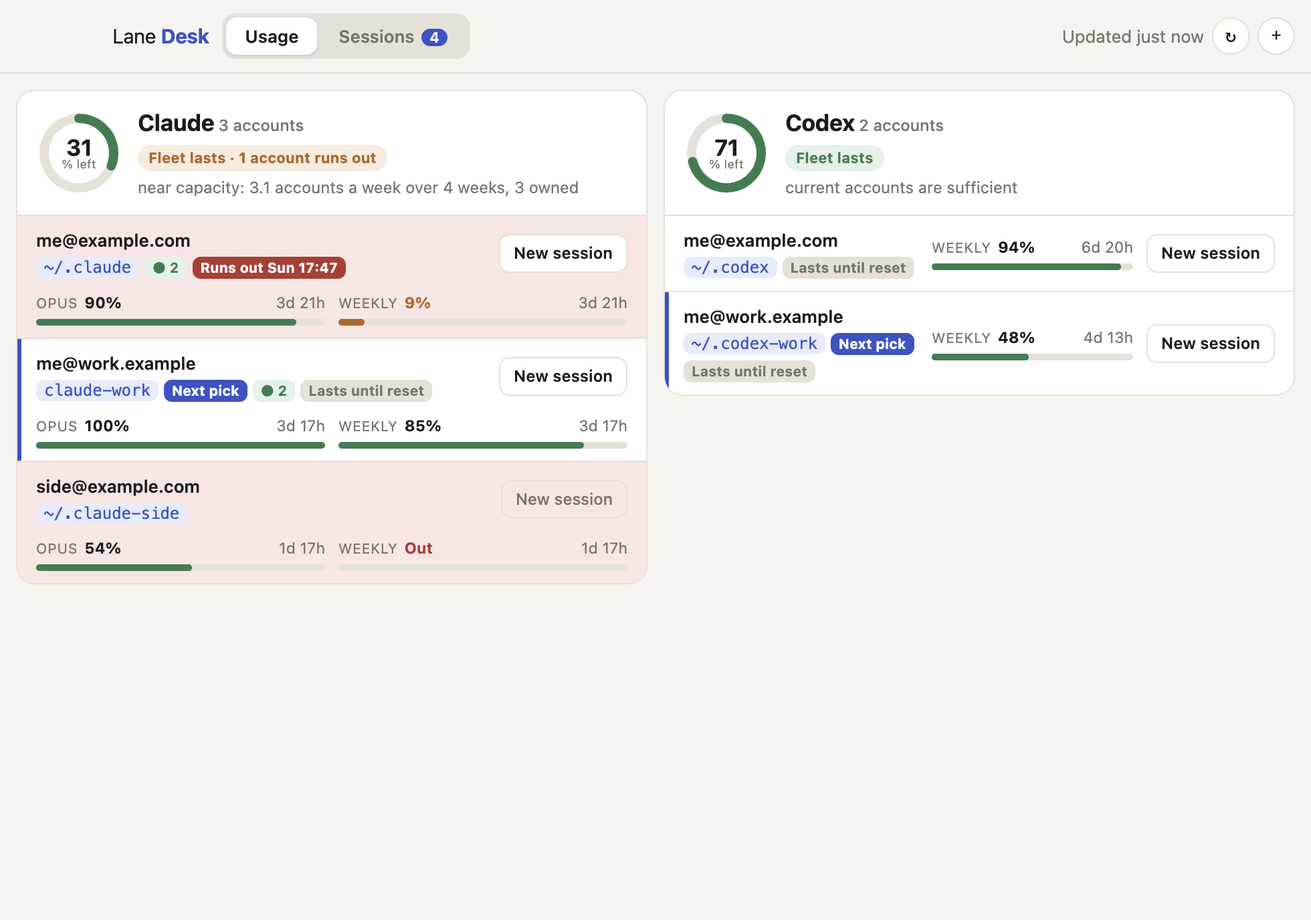
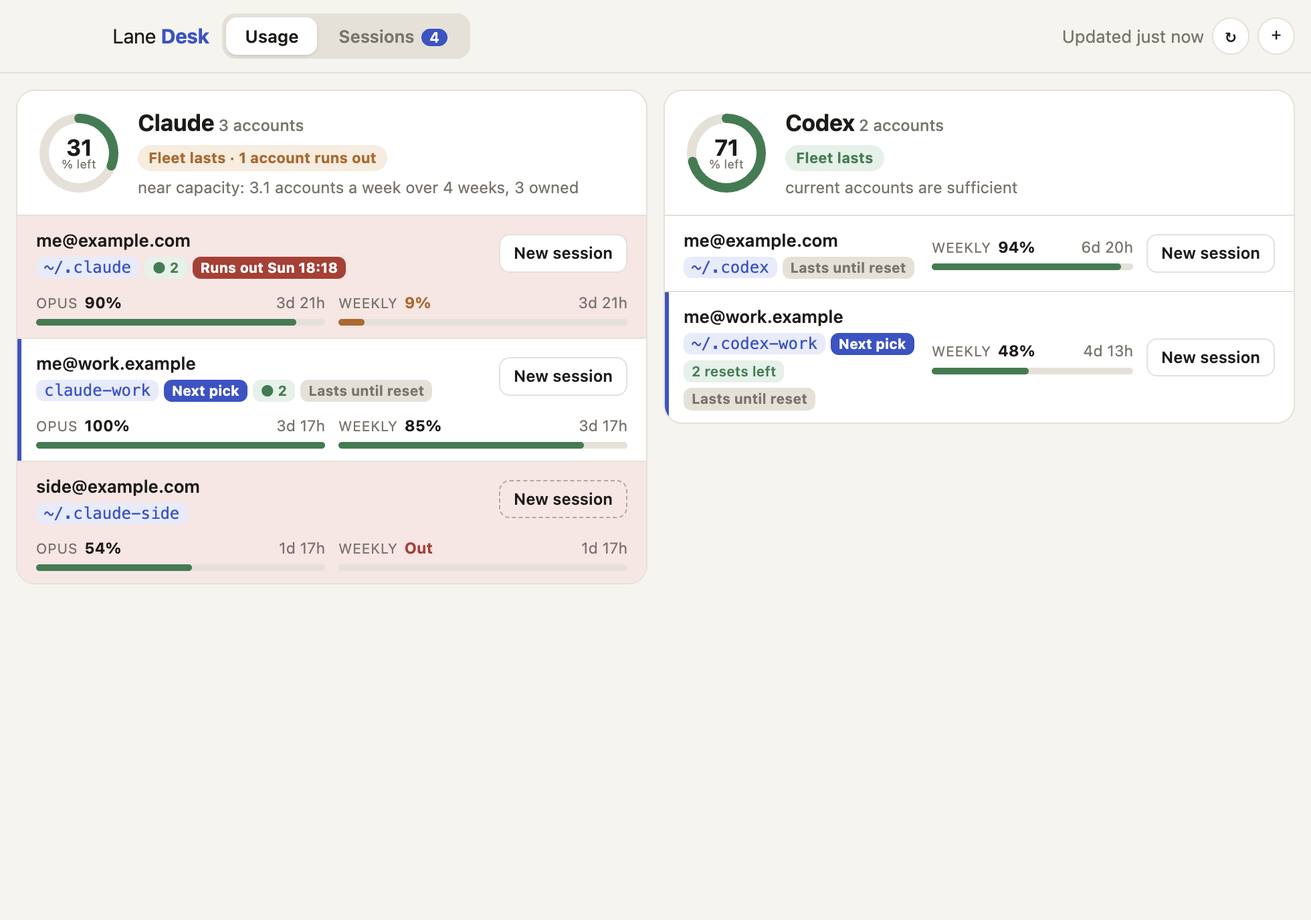
0.2.1: one-line popover bar, quiet vs off buttons, tmux notice, Codex banked resets, upgrade fixes (#5)
- C1: the 420 px popover keeps its top bar on one line ("Just now" in the popover).
- C2: quiet New session keeps sharp text with a dashed border; off fades.
- C3: without tmux, a line above the cards says to brew install tmux.
- C4: Codex accounts get "N resets left" from Tally resetCreditsAvailable,
  soonest expiry on hover (meaning from Tally ProviderModels.swift:155-177).
- C5: a copy that waited on an unresponsive copy for the one-instance lock
  never gets ready (Electron 45.4.1); relaunch once if not ready 8 s after
  the lock, exit if a relaunched copy is still not ready after 30 s. The
  right-click menu starts with "Lane Desk <version>".
- README (en, ko): upgrade order; npm i -g does not fetch Electron, the first
  run does (about 120 MB, 260 MB unpacked); new screenshots. Version 0.2.1.

Changed region(s): [[0.7158, 0.3438, 0.9648, 0.4062], [0.498, 0.375, 0.6224, 0.4375], [0.3735, 0.5312, 0.4668, 0.5625]]

diff --git a/lib/i18n.js b/lib/i18n.js
@@ -70,6 +70,15 @@ const STRINGS = {
     'runout.before.title': '{basis}. At this pace the weekly limit runs out before the reset{reset}.',
     'runout.resetAt': ' ({when})',
 
+    // Codex banked resets (from Tally)
+    'codexReset.one': '1 reset left',
+    'codexReset.many': '{n} resets left',
+    'codexReset.titleOne': 'This Codex account can still redeem 1 banked reset. A reset refills the weekly limit.',
+    'codexReset.titleMany': 'This Codex account can still redeem {n} banked resets. A reset refills the weekly limit.',
+    'codexReset.expires': 'The soonest expires {when} (in {left}).',
+    'codexReset.expiryUnknown': 'At least one has no reported expiry.',
+    'codexReset.source': 'Source: Tally. Lane Desk does not redeem them.',
+
     // sources
     'src.noTmux': 'tmux not found.',
     'src.noCommand': 'Command {cmd} not found.',
@@ -155,6 +164,7 @@ const STRINGS = {
     'ui.newSession.out': 'Weekly limit used up · resets in {left}',
     'ui.newSession.outNoDate': 'Weekly limit used up',
     'ui.needTmux': 'Needs tmux 3.2 or later (brew install tmux)',
+    'ui.needTmux.notice': 'New session and Attach need tmux 3.2 or later:',
     'ui.noLane.title': 'No command is set for this account',
     'ui.reset': 'Reset',
     'ui.resetting': 'Resetting…',
@@ -173,6 +183,7 @@ const STRINGS = {
     'ui.failedPrefix': 'Failed: {msg}',
     'ui.reloaded': 'Read again.',
     'ui.justUpdated': 'Updated just now',
+    'ui.justUpdated.short': 'Just now',
     'ui.secAgo': '{n}s ago',
     'ui.minAgo': '{n}m ago',
     'ui.staleTitle': 'Tally marked these values as old',
@@ -237,6 +248,14 @@ const STRINGS = {
     'runout.safe.title': '{basis}. 이 속도면 {when}에 바닥인데, 그 전에 리셋됩니다.',
     'runout.before.title': '{basis}. 이 속도면 리셋{reset} 전에 주간 한도가 바닥납니다.',
     'runout.resetAt': '({when})',
+
+    'codexReset.one': '리셋 1회 남음',
+    'codexReset.many': '리셋 {n}회 남음',
+    'codexReset.titleOne': '이 Codex 계정은 적립된 리셋을 아직 1회 쓸 수 있습니다. 리셋 1회는 주간 한도를 다시 채웁니다.',
+    'codexReset.titleMany': '이 Codex 계정은 적립된 리셋을 아직 {n}회 쓸 수 있습니다. 리셋 1회는 주간 한도를 다시 채웁니다.',
+    'codexReset.expires': '가장 빠른 만료는 {when}({left} 뒤)입니다.',
+    'codexReset.expiryUnknown': '만료 시각이 알려지지 않은 리셋이 하나 이상 있습니다.',
+    'codexReset.source': '근거: Tally. Lane Desk는 리셋을 쓰지 않습니다.',
 
     'src.noTmux': 'tmux를 찾지 못했습니다.',
     'src.noCommand': '{cmd} 명령을 찾지 못했습니다.',
@@ -320,6 +339,7 @@ const STRINGS = {
     'ui.newSession.out': '주간 한도 소진 · {left} 뒤 리셋',
     'ui.newSession.outNoDate': '주간 한도 소진',
     'ui.needTmux': 'tmux 3.2 이상 필요 (brew install tmux)',
+    'ui.needTmux.notice': '새 세션·붙기에는 tmux 3.2 이상이 필요합니다:',
     'ui.noLane.title': '이 계정에 실행 명령이 없습니다',
     'ui.reset': '리셋',
     'ui.resetting': '리셋 중…',
@@ -338,6 +358,7 @@ const STRINGS = {
     'ui.failedPrefix': '실패: {msg}',
     'ui.reloaded': '새로 읽었습니다.',
     'ui.justUpdated': '방금 갱신',
+    'ui.justUpdated.short': '방금',
     'ui.secAgo': '{n}초 전',
     'ui.minAgo': '{n}분 전',
     'ui.staleTitle': 'Tally가 오래된 값이라고 표시했습니다',

diff --git a/lib/model.js b/lib/model.js
@@ -3,7 +3,7 @@
 
 const lr = require('./limitreset');
 const ro = require('./runout');
-const { t } = require('./i18n');
+const { t, getLang } = require('./i18n');
 
 /** Weekly left (%) below which a 5-hour reset is not worth it: the weekly wall comes soon anyway (same rule as Tally). */
 const RESET_WEEKLY_FLOOR = 20;
@@ -99,6 +99,38 @@ function verdictOf(sustainable, accounts) {
     label: n ? `${fleet} · ${t(n === 1 ? 'verdict.runoutOne' : 'verdict.runoutMany', { n })}` : fleet,
     title: t('verdict.title'),
   };
+}
+
+/** "Lane Desk 0.2.1", with " (demo)" for the demo: the version line at the top of the menu bar's right-click menu. */
+function appLabel(version, demo = false) {
+  return `Lane Desk ${version}${demo ? ' (demo)' : ''}`;
+}
+
+/** A date and time as "Dec 12, 22:41" (or "12월 12일 22:41"). Without timeZone, this Mac's zone. */
+function fmtDate(ms, timeZone) {
+  const ko = getLang() === 'ko';
+  const fmt = new Intl.DateTimeFormat('en-US', { timeZone, month: ko ? 'numeric' : 'short', day: 'numeric', hour: '2-digit', minute: '2-digit', hourCycle: 'h23' });
+  const p = Object.fromEntries(fmt.formatToParts(new Date(ms)).map((x) => [x.type, x.value]));
+  return ko ? `${p.month}월 ${p.day}일 ${p.hour}:${p.minute}` : `${p.month} ${p.day}, ${p.hour}:${p.minute}`;
+}
+
+/**
+ * The banked-reset tag of one Codex account, from Tally's status fields. In Tally's source
+ * (Tally/Providers/ProviderModels.swift:155-177) `resetCreditsAvailable` is how many banked rate-limit resets the
+ * account can still redeem, `resetCreditsNextExpiry` is when the soonest spendable one expires (null does NOT mean
+ * "never"), and `resetCreditsExpiryUnknown` is true when at least one has no reported expiry. A redeem refills the
+ * weekly window (Tally/Core/CodexAutoRedeem.swift:3,35). Like Tally's own row ("2 resets available",
+ * Tally/Views/UsageLayoutParts.swift:106), only a count above 0 is drawn. Lane Desk never redeems.
+ */
+function codexResets(a, now, timeZone) {
+  const n = a.resetCreditsAvailable;
+  if (!Number.isInteger(n) || n <= 0) return null;
+  const title = [t(n === 1 ? 'codexReset.titleOne' : 'codexReset.titleMany', { n })];
+  const expiry = typeof a.resetCreditsNextExpiry === 'string' ? Date.parse(a.resetCreditsNextExpiry) : NaN;
+  if (!Number.isNaN(expiry)) title.push(t('codexReset.expires', { when: fmtDate(expiry, timeZone), left: fmtLeft(expiry, now) }));
+  if (a.resetCreditsExpiryUnknown === true) title.push(t('codexReset.expiryUnknown'));
+  title.push(t('codexReset.source'));
+  return { label: t(n === 1 ? 'codexReset.one' : 'codexReset.many', { n }), title: title.join(' ') };
 }
 
 /** Hover text for New session on an account whose weekly limit is used up: when it resets, if known. */
@@ -250,6 +282,7 @@ function buildView({ status, problem = null, lanes = {}, sessions = [], norm = (
           const r = (key && resets[key]) || {};
           account.limitReset = resetInfo(r.flag ?? null, r.record || null, now, a.resetState ?? null);
         }
+        account.codexResets = id === 'codex' ? codexResets(a, now, timeZone) : null;
         accountsById[account.id] = account;
         return account;
       });
@@ -322,6 +355,7 @@ module.exports = {
   resetInfo,
   RESET_WEEKLY_FLOOR,
   verdictOf,
+  appLabel,
   TALLY_URL,
   DEMO_COMMAND,
 };

diff --git a/test/model.test.js b/test/model.test.js
@@ -179,6 +179,46 @@ describe('the card verdict', () => {
   });
 });
 
+describe('Codex banked resets from Tally', () => {
+  const codex = (over) => ({ id: 'x9', provider: 'codex', label: 'dev', launchHome: '/home/me/.codex', weeklyRemaining: 50, ...over });
+  const tag = (over) => buildView({ status: { accounts: [codex(over)] }, now: NOW, timeZone: 'UTC' }).providers[0].accounts[0].codexResets;
+
+  it('counts the resets left and gives the soonest expiry, from Tally', () => {
+    const r = tag({ resetState: 'available', resetCreditsAvailable: 2, resetCreditsNextExpiry: '2026-12-12T22:41:46Z', resetCreditsExpiryUnknown: false });
+    expect(r.label).toBe('2 resets left');
+    expect(r.title).toBe(
+      'This Codex account can still redeem 2 banked resets. A reset refills the weekly limit. The soonest expires Dec 12, 22:41 (in 21d 22h). Source: Tally. Lane Desk does not redeem them.',
+    );
+  });
+
+  it('says when an expiry is not reported, and never reads no date as no expiry', () => {
+    const r = tag({ resetCreditsAvailable: 1, resetCreditsExpiryUnknown: true });
+    expect(r.label).toBe('1 reset left');
+    expect(r.title).toContain('At least one has no reported expiry.');
+    expect(r.title).not.toContain('soonest');
+  });
+
+  it('draws nothing for zero, a missing count, or a Claude account', () => {
+    expect(tag({ resetState: 'used', resetCreditsAvailable: 0 })).toBeNull();
+    expect(tag({ resetState: 'notSupported' })).toBeNull();
+    expect(buildView({ status, now: NOW }).providers[0].accounts[0].codexResets).toBeNull();
+  });
+
+  it('reads in Korean', () => {
+    i18n.setLang('ko');
+    const r = tag({ resetCreditsAvailable: 3, resetCreditsNextExpiry: '2026-11-30T19:55:07Z' });
+    expect(r.label).toBe('리셋 3회 남음');
+    expect(r.title).toContain('가장 빠른 만료는 11월 30일 19:55(9d 19h 뒤)입니다.');
+  });
+});
+
+describe('the version line in the menu bar menu', () => {
+  it('names the running version, and the demo', () => {
+    expect(model.appLabel('0.2.1')).toBe('Lane Desk 0.2.1');
+    expect(model.appLabel('0.2.1', true)).toBe('Lane Desk 0.2.1 (demo)');
+  });
+});
+
 describe('short paths', () => {
   it('shortens only paths inside the home folder', () => {
     expect(model.shortPath('/home/me/code', '/home/me')).toBe('~/code');

diff --git a/renderer/style.css b/renderer/style.css
@@ -66,8 +66,12 @@ code { font: 12px ui-monospace, 'SF Mono', Menlo, monospace; }
 .tabs { display: flex; background: var(--line); padding: 3px; border-radius: 10px; gap: 2px; }
 .tabs button {
   border: 0; background: transparent; color: var(--muted); font: inherit; font-weight: 600;
-  padding: 5px 14px; border-radius: 8px; cursor: pointer;
+  padding: 5px 14px; border-radius: 8px; cursor: pointer; white-space: nowrap;
 }
+/* the 420 px popover keeps brand, tabs, badge, time, and buttons on one line */
+.mode-popover .bar { gap: 8px; }
+.mode-popover .tabs button { padding: 5px 10px; }
+#updated { white-space: nowrap; }
 .tabs button[aria-selected='true'] { background: var(--panel); color: var(--ink); box-shadow: 0 1px 2px rgb(0 0 0 / 0.12); }
 .count:not(:empty) { background: var(--accent); color: #fff; border-radius: 9px; padding: 0 6px; font-size: 11px; margin-left: 2px; }
 .tools { margin-left: auto; display: flex; align-items: center; gap: 6px; }
@@ -80,6 +84,8 @@ button.icon {
 main { flex: 1; overflow: auto; padding: 12px; }
 .empty-state { text-align: center; color: var(--muted); padding: 48px 12px; }
 .empty-state.error { color: var(--out); }
+.notice { margin: 0 0 12px; padding: 8px 12px; border-radius: 10px; background: var(--low-soft); color: var(--low); font-size: 12.5px; }
+.notice code { white-space: nowrap; -webkit-user-select: all; user-select: all; }
 
 /* usage */
 .providers { display: grid; gap: 12px; }
@@ -153,7 +159,9 @@ button.go {
 }
 button.go:hover:not(:disabled) { border-color: var(--accent); color: var(--accent); }
 button.go:disabled { opacity: 0.45; cursor: default; }
-button.go.quiet { background: transparent; color: var(--muted); font-weight: 500; } /* weekly limit used up: allowed, not suggested */
+/* weekly limit used up: allowed, not suggested. The text stays sharp; only the border and fill fade.
+   A button that is off (:disabled) fades as a whole, so the two read differently. */
+button.go.quiet { background: transparent; border-style: dashed; border-color: color-mix(in srgb, var(--muted) 55%, transparent); }
 button.go.working { opacity: 1; color: var(--accent); border-color: var(--accent); animation: pulse 1s ease-in-out infinite; }
 @keyframes pulse { 50% { background: var(--accent-soft); } }
 

diff --git a/renderer/app.js b/renderer/app.js
@@ -144,6 +144,7 @@ function accountRow(a, provider) {
           a.live ? h('span', { class: 'tag live', title: T('ui.live') }, `● ${a.live}`) : null,
           a.stale || a.failed ? h('span', { class: 'tag warn' }, a.failed ? T('ui.failed') : T('ui.stale')) : null,
           a.limitReset && a.limitReset.label ? h('span', { class: `tag reset ${a.limitReset.state}`, title: a.limitReset.title }, a.limitReset.label) : null,
+          a.codexResets ? h('span', { class: 'tag reset available', title: a.codexResets.title }, a.codexResets.label) : null,
           a.runout && a.runout.label ? h('span', { class: `tag runout ${a.runout.state}`, title: a.runout.title }, a.runout.label) : null,
         ),
       ),
@@ -170,7 +171,9 @@ function providerCard(p) {
 }
 
 function usageTab() {
-  return h('div', { class: 'providers' }, view.providers.map(providerCard));
+  // Without tmux every New session button is off; say why where it can be seen, not only on hover.
+  const noTmux = view.tmux === false ? h('p', { class: 'notice' }, T('ui.needTmux.notice'), ' ', h('code', {}, 'brew install tmux')) : null;
+  return h('div', {}, noTmux, h('div', { class: 'providers' }, view.providers.map(providerCard)));
 }
 
 // The status values in Claude session files. "shell" looks like a shell command is running (observed, not documented).
@@ -300,7 +303,9 @@ function updatedLabel() {
   const el = document.getElementById('updated');
   if (!view || !view.fetchedAt) return;
   const s = Math.round((Date.now() - view.fetchedAt) / 1000);
-  el.textContent = s < 5 ? T('ui.justUpdated') : s < 60 ? T('ui.secAgo', { n: s }) : T('ui.minAgo', { n: Math.floor(s / 60) });
+  // The popover's top bar has room for a short word only ("Just now", not "Updated just now").
+  const now = mode === 'popover' ? T('ui.justUpdated.short') : T('ui.justUpdated');
+  el.textContent = s < 5 ? now : s < 60 ? T('ui.secAgo', { n: s }) : T('ui.minAgo', { n: Math.floor(s / 60) });
   el.classList.toggle('warn', Boolean(view.stale));
   el.title = view.stale ? T('ui.staleTitle') : '';
 }

diff --git a/main.js b/main.js
@@ -212,6 +212,9 @@ function buildAppMenu() {
 
 function trayMenu() {
   return Menu.buildFromTemplate([
+    // Which copy is running, so an upgrade can be checked from the menu bar.
+    { label: model.appLabel(app.getVersion(), Boolean(demo)), enabled: false },
+    { type: 'separator' },
     { label: t('menu.openWindow'), click: () => showWindow() },
     { label: t('menu.refresh'), click: () => refresh() },
     { type: 'separator' },
@@ -365,6 +368,32 @@ async function capture(dir) {
   app.quit();
 }
 
+/**
+ * An upgrade often starts the new copy while the old one is still quitting. When the old copy does not answer the
+ * one-instance handshake, requestSingleInstanceLock waits for it and then returns true, but this process never gets
+ * 'ready' (reproduced on Electron 45.4.1 with an owner that stopped answering for 0.2 s to 20 s). It would stay up
+ * holding the lock, with no menu bar item, and every later launch would hand off to it. So: not ready 8 s after the
+ * lock, start over once (by then the old copy is gone); a copy that was started over and is still not ready after
+ * 30 s exits rather than hold the lock.
+ */
+const RELAUNCHED = '--lane-desk-relaunched';
+function watchReady() {
+  const again = process.argv.includes(RELAUNCHED);
+  const timer = setTimeout(
+    () => {
+      if (app.isReady()) return;
+      if (again) {
+        app.exit(1);
+        return;
+      }
+      app.relaunch({ args: [...process.argv.slice(1), RELAUNCHED] });
+      app.exit(0);
+    },
+    again ? 30_000 : 8_000,
+  );
+  app.whenReady().then(() => clearTimeout(timer));
+}
+
 // Stay in the menu bar when every window is closed. Without this, Electron quits with the last window.
 app.on('window-all-closed', () => {});
 
@@ -388,6 +417,7 @@ if (process.env.LANE_DESK_CAPTURE) {
 } else if (!app.requestSingleInstanceLock()) {
   app.quit();
 } else {
+  watchReady();
   app.on('second-instance', () => showWindow());
   app.whenReady().then(() => {
     pickLanguage();

diff --git a/lib/demo.js b/lib/demo.js
@@ -18,6 +18,9 @@ const ACCOUNTS = [
   ['codex', '.codex-work', 'me@work.example', 48, 109, null, 0.35, true],
 ];
 
+// Codex banked resets as Tally reports them: count, hours to the soonest expiry.
+const CODEX_RESETS = { '.codex-work': [2, 190] };
+
 const id = (provider, dir) => `${provider}:${dir}`;
 
 function status(now) {
@@ -34,6 +37,14 @@ function status(now) {
     best,
     isStale: false,
     lastRefreshFailed: false,
+    ...(CODEX_RESETS[dir]
+      ? {
+          resetState: 'available',
+          resetCreditsAvailable: CODEX_RESETS[dir][0],
+          resetCreditsNextExpiry: at(now, CODEX_RESETS[dir][1]),
+          resetCreditsExpiryUnknown: false,
+        }
+      : {}),
   }));
   return {
     version: 1,

diff --git a/README.ko.md b/README.ko.md
@@ -4,14 +4,14 @@
 
 Claude Code나 Codex를 계정 여러 개로 쓰는 사람을 위한 macOS 메뉴바 앱입니다. [Tally](https://github.com/jettoai/tally)가 이미 모으는 값을 읽어, 계정마다 얼마나 남았는지와 지금 속도면 언제 바닥나는지를 보여 줍니다. 같은 창에서 원하는 계정으로 새 세션을 열거나, 돌고 있는 세션으로 바로 돌아갑니다.
 
-![사용량 탭: Claude·Codex 카드에 계정마다 한 줄씩 있습니다. Claude 카드 판정은 「전체로는 버팀 · 1개 계정 바닥 예상」입니다. 개인 Claude 계정은 주간 9%가 남았고 요일과 시각이 적힌 빨간 「바닥 예상」 태그가 붙었습니다. 주간 한도를 다 쓴 계정의 새 세션 버튼은 흐립니다.](assets/usage-ko.png)
+![사용량 탭: Claude·Codex 카드에 계정마다 한 줄씩 있습니다. Claude 카드 판정은 「전체로는 버팀 · 1개 계정 바닥 예상」입니다. 개인 Claude 계정은 주간 9%가 남았고 요일과 시각이 적힌 빨간 「바닥 예상」 태그가 붙었습니다. 주간 한도를 다 쓴 계정의 새 세션 버튼은 점선이고, Codex 계정 하나에 「리셋 2회 남음」 태그가 있습니다.](assets/usage-ko.png)
 
 <sub>스크린샷은 지어낸 계정입니다(`LANE_DESK_DEMO=1`).</sub>
 
 - **메뉴바에 `C31 X71`이 뜹니다.** Claude와 Codex 계정 전체에서 남은 %이고, Tally가 매긴 가중치를 따릅니다. Tally에 계정이 없는 쪽은 메뉴바와 카드에서 뺍니다(`X71`).
 - **카드의 판정은 Tally가 계정 전체를 합쳐 낸 것입니다**(「전체로는 버팀」·「전체로는 모자람」). 리셋 전에 바닥날 계정이 있으면 그 수를 덧붙입니다(「전체로는 버팀 · 1개 계정 바닥 예상」).
 - **계정별 바닥 예상.** 최근 72시간 동안 계정마다 주간 한도를 얼마나 빨리 썼는지 잽니다. 주간 리셋 전에 바닥날 계정에는 시각이 적힌 빨간 태그(「일 03:25 바닥 예상」)를 붙이고, 아니면 「리셋 전 안 바닥남」을 붙입니다. 알려 주기만 합니다. 알림을 보내거나 계정을 대신 바꾸지 않습니다.
-- **새 세션**은 그 계정으로 tmux 세션을 열고 iTerm 새 탭에서 붙습니다. 주간 한도를 다 쓴 계정은 버튼을 흐리게 두지만 막지는 않습니다(곧 리셋될 수 있음). 마우스를 올리면 리셋까지 남은 시간이 나옵니다. tmux가 없으면 버튼을 끄고 무엇을 설치할지 알려 줍니다.
+- **새 세션**은 그 계정으로 tmux 세션을 열고 iTerm 새 탭에서 붙습니다. 주간 한도를 다 쓴 계정은 버튼을 흐리게 두지만 막지는 않습니다(곧 리셋될 수 있음). 마우스를 올리면 리셋까지 남은 시간이 나옵니다. tmux가 없으면 버튼을 끄고, 카드 위에 무엇을 설치할지 한 줄로 알려 줍니다.
 - **세션 탭**은 지금 돌고 있는 Claude Code 세션을 최근 순으로 보여 줍니다. **붙기**는 그 세션의 tmux 세션을 iTerm으로 엽니다. 이미 어느 창에 붙어 있으면 iTerm만 앞으로 가져옵니다.
 - **리셋**은 5시간 한도에 걸린 세션에 나타납니다. 확인을 받은 뒤 그 세션에 `/limit-reset`을 입력하고, Claude Code의 답을 대화 기록에서 읽어 알려 줍니다.
 
@@ -31,7 +31,9 @@ npx lane-desk            # 메뉴바만
 npx lane-desk --window   # 창도 바로 열기
 ```
 
-`npm i -g lane-desk`로 한 번 설치한 뒤 `lane-desk`로 실행해도 됩니다. 처음 실행할 때 Electron(약 110MB)을 받습니다. npm으로 받으면 서명 없는 `.app`을 내려받을 때 뜨는 「확인되지 않은 개발자」 차단 없이 실행됩니다.
+`npm i -g lane-desk`로 한 번 설치한 뒤 `lane-desk`로 실행해도 됩니다. `npm i -g`는 Electron을 받지 않고, 처음 실행할 때 받습니다(약 120MB, 풀면 260MB). `~/Library/Caches/electron`에 이미 있으면 그것을 씁니다. npm으로 받으면 서명 없는 `.app`을 내려받을 때 뜨는 「확인되지 않은 개발자」 차단 없이 실행됩니다.
+
+전역 설치를 올리려면: 메뉴바 글자 오른쪽 클릭 → 종료, `npm i -g lane-desk@latest`, `lane-desk` 순서로 합니다. 오른쪽 클릭 메뉴 맨 위 줄에 지금 도는 판 번호가 있습니다.
 
 clone해서 쓸 때:
 
@@ -92,6 +94,8 @@ Claude Code는 `/limit-reset`으로 세션의 5시간 한도를 주 1회 풀어 
 - 버튼은 세 조건을 모두 만족할 때만 눌립니다. 세션이 대기 상태, 이번 주 리셋을 썼다고 확인되지 않음(태그가 없는 계정도 포함), 주간 잔량 20% 이상입니다. 20%는 Tally와 같은 기준입니다. 그 아래면 곧 주간 한도에 걸립니다.
 - tmux 창이 스크롤 모드면 입력하지 않습니다. 입력 직전에 세션 상태를 한 번 더 봅니다.
 - 아직 관찰하지 못한 것: 성공 문장. 지금까지 본 실제 답은 한도에 걸리지 않은 세션에서 나온 "A 5-hour limit reset isn't available right now." 하나입니다.
+
+**Codex** 계정은 주간 한도를 다시 채우는 리셋을 적립해 둘 수 있습니다. Tally가 적립분을 알려 주면(`resetCreditsAvailable`이 0보다 큼) 계정에 `리셋 2회 남음` 같은 태그를 붙입니다. 마우스를 올리면 가장 빠른 만료 시각이, 만료가 알려지지 않았으면 그렇다는 문장이 나옵니다. Lane Desk는 보여 주기만 하고 리셋을 쓰지 않습니다.
 
 ## 읽는 것
 

diff --git a/README.md b/README.md
@@ -4,14 +4,14 @@ English · [한국어](README.ko.md)
 
 A macOS menu bar app for people who use Claude Code or Codex on more than one account. It reads what [Tally](https://github.com/jettoai/tally) already tracks and shows, per account, how much is left and when it runs out at your current pace. From the same window you start a session on any account, or jump back into one that is running.
 
-![The Usage tab: Claude and Codex cards with one row per account. The Claude card says "Fleet lasts · 1 account runs out": the personal account has 9% weekly left and a red "Runs out" tag with a day and time. The account with no weekly left has a dimmed New session button.](assets/usage.png)
+![The Usage tab: Claude and Codex cards with one row per account. The Claude card says "Fleet lasts · 1 account runs out": the personal account has 9% weekly left and a red "Runs out" tag with a day and time. The account with no weekly left has a dashed New session button, and a Codex account shows "2 resets left".](assets/usage.png)
 
 <sub>Screenshots use made-up accounts (`LANE_DESK_DEMO=1`).</sub>
 
 - **The menu bar shows `C31 X71`**: Claude and Codex, percent left across all your accounts, as Tally weighs them. A provider with no accounts in Tally is left out (`X71`), on the menu bar and as a card.
 - **Each card's verdict is Tally's, for all its accounts together** ("Fleet lasts" or "Fleet runs short"), with the number of accounts that run out before their reset next to it ("Fleet lasts · 1 account runs out").
 - **Run-out forecast per account.** It measures how fast each account spent its weekly limit over the last 72 hours. If the account will run out before its weekly reset, it gets a red tag with the time ("Runs out Sun 03:25"). Otherwise the tag says "Lasts until reset". It only tells you. It sends no notification and never switches accounts for you.
-- **New session** opens a tmux session on that account and attaches to it in a new iTerm tab. On an account whose weekly limit is used up, the button is dimmed but still works (the limit may reset soon); hover it for when. Without tmux the button is off and says what to install.
+- **New session** opens a tmux session on that account and attaches to it in a new iTerm tab. On an account whose weekly limit is used up, the button is dimmed but still works (the limit may reset soon); hover it for when. Without tmux the buttons are off and a line above the cards says what to install.
 - **Sessions tab** lists the Claude Code sessions running now, newest first. **Attach** opens the session's tmux session in iTerm, or brings iTerm forward if a window is already attached.
 - **Reset** appears on a session stuck at its 5-hour limit. It types `/limit-reset` into that session after you confirm, then reads Claude Code's answer from the transcript.
 
@@ -31,7 +31,9 @@ npx lane-desk            # menu bar only
 npx lane-desk --window   # also open a window
 ```
 
-Or install it once with `npm i -g lane-desk` and run `lane-desk`. The first run downloads Electron (about 110 MB). Installed from npm, it runs without the "unidentified developer" prompt that an unsigned `.app` download gets.
+Or install it once with `npm i -g lane-desk` and run `lane-desk`. `npm i -g` does not fetch Electron; the first run does (about 120 MB, 260 MB unpacked), unless a copy is already in `~/Library/Caches/electron`. Installed from npm, it runs without the "unidentified developer" prompt that an unsigned `.app` download gets.
+
+To upgrade a global install: right-click the menu bar title → Quit, then `npm i -g lane-desk@latest`, then `lane-desk`. The top line of that right-click menu shows the version that is running.
 
 From a clone:
 
@@ -92,6 +94,8 @@ Claude Code can lift a session's 5-hour limit once a week with `/limit-reset`. T
 - The button works only when the session is idle, this week's reset is not known to be used (an account with no tag counts), and the account has at least 20% weekly left (Tally's rule: below that, the weekly wall comes soon anyway).
 - It does not type into a tmux pane in scroll mode, and it checks the session again right before typing.
 - Not seen yet: the success sentence. The only real answer observed so far is "A 5-hour limit reset isn't available right now." from a session that was not at its limit.
+
+**Codex** accounts can bank resets that refill the weekly limit. When Tally reports some (`resetCreditsAvailable` above 0), the account gets a tag such as `2 resets left`; hover it for the soonest expiry, or a note that an expiry was not reported. Lane Desk only shows them; it does not redeem them.
 
 ## What it reads
 
